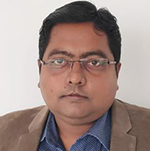
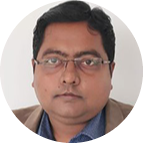
main

diff --git a/staff-members.html b/staff-members.html
@@ -74,21 +74,21 @@
     </p>
 </div>
 <div class="staff-list">
-    <div class="member-box-1"><span></span>
+    <div class="member-box-1"><span><img class="d-block w-100" src="CSS/principal-image.jpg"></span>
    <p class="qualification"> <b>PROF.(DR.) DULU PATNAIK</b> <br><br> POST<b>:</b>  PRINCIPAL (GCEK)<br><br>QUALIFICATION<b>:</b>  M.Tech., PGDBA, Ph.D. (ISM Dhanbad)<br><br>EMAIL-ID <b>:</b><a class="staff-mail" href="mailto:librarian@gcekbpatna.ac.in">  principalgcek@gmail.com</a></p> 
 </div>
 </div>
 <div class="staff-list-1">
-    <div class="member-box-2"><span></span><p class="qualification-1"> <b>PROF.(DR.) SUSANTA KUMAR MOHANTA</b><br><br> POST<b>:</b>  CHAIRMAN (GCE LIBRARY) <br><br>QUALIFICATION <b>:</b>  M.Sc, Ph.D.<br><br>EMAIL-ID <b>:</b><a class="staff-mail" href="mailto:skm@gcekbpatna.ac.in">  skm@gcekbpatna.ac.in</a></p></div>
-    <div class="member-box-3"><span></span><p class="qualification-1"><b>PROF. AJIT KUMAR PATTNAIK</b> <br><br> POST<b>:</b> LIBRARY MEMBER<br><br> QUALIFICATION<b>:</b>  B.Tech, M.Tech<br><br>EMAIL-ID <b>:</b><a class="staff-mail" href="mailto:ajitpuce@gmail.com">  ajitpuce@gmail.com</a></p></div>
+    <div class="member-box-2"><span><img class="d-block w-100" src="CSS/chairman-lib.jpg"></span><p class="qualification-1"> <b>PROF.(DR.) SUSANTA KUMAR MOHANTA</b><br><br> POST<b>:</b>  CHAIRMAN (GCE LIBRARY) <br><br>QUALIFICATION <b>:</b>  M.Sc, Ph.D.<br><br>EMAIL-ID <b>:</b><a class="staff-mail" href="mailto:skm@gcekbpatna.ac.in">  skm@gcekbpatna.ac.in</a></p></div>
+    <div class="member-box-3"><span><img class="d-block w-100" src="CSS/member-1-lib.jpg"></span><p class="qualification-1"><b>PROF. AJIT KUMAR PATTNAIK</b> <br><br> POST<b>:</b> LIBRARY MEMBER<br><br> QUALIFICATION<b>:</b>  B.Tech, M.Tech<br><br>EMAIL-ID <b>:</b><a class="staff-mail" href="mailto:ajitpuce@gmail.com">  ajitpuce@gmail.com</a></p></div>
 </div>
 <div class="staff-list-2">
-    <div class="member-box-4"><span></span><p class="qualification-1"><b>PROF.SAUJANYA KUMAR SAHU</b><br><br> POST<b>:</b> LIBRARY MEMBER <br><br>QUALIFICATION <b>:</b>  B.Tech, M.Tech<br><br>EMAIL-ID <b>:</b><a class="staff-mail" href="mailto:saujanyaks@gmail.com">  saujanyaks@gmail.com</a></p> </div>
-    <div class="member-box-5"><span></span><p class="qualification-1"><b>MR. SUBHAM SAHU</b> <br><br> POST<b>:</b>  ASSISTANT LIBRARIAN <br><br>QUALIFICATION <b>:</b>  M.Sc (LIBRARY SCIENCE)<br><br>EMAIL-ID <b>:</b><a class="staff-mail" href="mailto:rinkalkumr@gmail.com">  rinkalkumr@gmail.com</a></p></div>
+    <div class="member-box-4"><span><img class="d-block w-100" src="CSS/member-2-lib.jpg"></span><p class="qualification-1"><b>PROF.SAUJANYA KUMAR SAHU</b><br><br> POST<b>:</b> LIBRARY MEMBER <br><br>QUALIFICATION <b>:</b>  B.Tech, M.Tech<br><br>EMAIL-ID <b>:</b><a class="staff-mail" href="mailto:saujanyaks@gmail.com">  saujanyaks@gmail.com</a></p> </div>
+    <div class="member-box-5"><span><img class="d-block w-100" src="CSS/asst-lib-1.jpg"></span><p class="qualification-1"><b>MR. SUBHAM SAHU</b> <br><br> POST<b>:</b>  ASSISTANT LIBRARIAN <br><br>QUALIFICATION <b>:</b>  M.Sc (LIBRARY SCIENCE)<br><br>EMAIL-ID <b>:</b><a class="staff-mail" href="mailto:rinkalkumr@gmail.com">  rinkalkumr@gmail.com</a></p></div>
 </div>
 <div class="staff-list-3">
-    <div class="member-box-6"><span></span><p class="qualification-1"><b>MR. TARANG KUMAR BHOI</b> <br><br> POST<b>:</b>  ASSISTANT LIBRARIAN <br><br>QUALIFICATION <b>:</b>  M.Sc (LIBRARY SCIENCE)<br><br>EMAIL-ID <b>:</b><a class="staff-mail" href="mailto:itkkumarbhoi@gmail.com">  itkkumarbhoi@gmail.com</a></p></div>
-    <div class="member-box-7"><span></span><p class="qualification-2"><b>MR. KAUSTAB BAG </b><br><br> POST<b>:</b>  PEON<br><br>EMAIL-ID <b>:</b><a class="staff-mail" href="mailto:kaustabbag33@gmail.com">  kaustabbag33@gmail.com</a></p></p></div>
+    <div class="member-box-6"><span><img class="d-block w-100" src="CSS/asst-lib-2.jpg"></span><p class="qualification-1"><b>MR. TARANG KUMAR BHOI</b> <br><br> POST<b>:</b>  ASSISTANT LIBRARIAN <br><br>QUALIFICATION <b>:</b>  M.Sc (LIBRARY SCIENCE)<br><br>EMAIL-ID <b>:</b><a class="staff-mail" href="mailto:itkkumarbhoi@gmail.com">  itkkumarbhoi@gmail.com</a></p></div>
+    <div class="member-box-7"><span><img class="d-block w-100" src="CSS/peon.jpg"></span><p class="qualification-2"><b>MR. KAUSTAB BAG </b><br><br> POST<b>:</b>  PEON<br><br>EMAIL-ID <b>:</b><a class="staff-mail" href="mailto:kaustabbag33@gmail.com">  kaustabbag33@gmail.com</a></p></p></div>
 </div>
 <div class="intro-link"></div>
 <!-----------FOOTER SECTION----------->

diff --git a/CSS/style.css b/CSS/style.css
@@ -1573,7 +1573,6 @@ ul{
 	-moz-box-shadow: 0 0.33vw 1.31vw #ddd;
 	-webkit-box-shadow: 0 0.33vw 1.31vw #ddd;
 	box-shadow: 0 0.33vw 1.31vw #ddd;
-    background: url(principal-image.jpg) no-repeat center;
 }
 .staff-list-1 .member-box-2 span{
     display: block;
@@ -1587,7 +1586,6 @@ ul{
 	-moz-box-shadow: 0 0.33vw 1.31vw #ddd;
 	-webkit-box-shadow: 0 0.33vw 1.31vw #ddd;
 	box-shadow: 0 0.33vw 1.31vw #ddd;
-    background: url(chairman-lib.jpg) no-repeat center;
 }
 .staff-list-1 .member-box-3 span{
     display: block;
@@ -1601,7 +1599,6 @@ ul{
 	-moz-box-shadow: 0 0.33vw 1.31vw #ddd;
 	-webkit-box-shadow: 0 0.33vw 1.31vw #ddd;
 	box-shadow: 0 0.33vw 1.31vw #ddd;
-    background: url(member-1-lib.jpg) no-repeat center;
 }
 .staff-list-2 .member-box-4 span{
     display: block;
@@ -1615,7 +1612,6 @@ ul{
 	-moz-box-shadow: 0 0.33vw 1.31vw #ddd;
 	-webkit-box-shadow: 0 0.33vw 1.31vw #ddd;
 	box-shadow: 0 0.33vw 1.31vw #ddd;
-    background: url(member-2-lib.jpg) no-repeat center;
 }
 .staff-list-2 .member-box-5 span{
     display: block;
@@ -1629,7 +1625,6 @@ ul{
 	-moz-box-shadow: 0 0.33vw 1.31vw #ddd;
 	-webkit-box-shadow: 0 0.33vw 1.31vw #ddd;
 	box-shadow: 0 0.33vw 1.31vw #ddd;
-    background: url(asst-lib-1.jpg) no-repeat center;
 }
 .staff-list-3 .member-box-6 span{
     display: block;
@@ -1643,7 +1638,6 @@ ul{
 	-moz-box-shadow: 0 0.33vw 1.31vw #ddd;
 	-webkit-box-shadow: 0 0.33vw 1.31vw #ddd;
 	box-shadow: 0 0.33vw 1.31vw #ddd;
-    background: url(asst-lib-2.jpg) no-repeat center;
 }
 .staff-list-3 .member-box-7 span{
     display: block;
@@ -1657,7 +1651,6 @@ ul{
 	-moz-box-shadow: 0 0.33vw 1.31vw #ddd;
 	-webkit-box-shadow: 0 0.33vw 1.31vw #ddd;
 	box-shadow: 0 0.33vw 1.31vw #ddd;
-    background: url(peon.jpg) no-repeat center;
 }
 .qualification
 {
